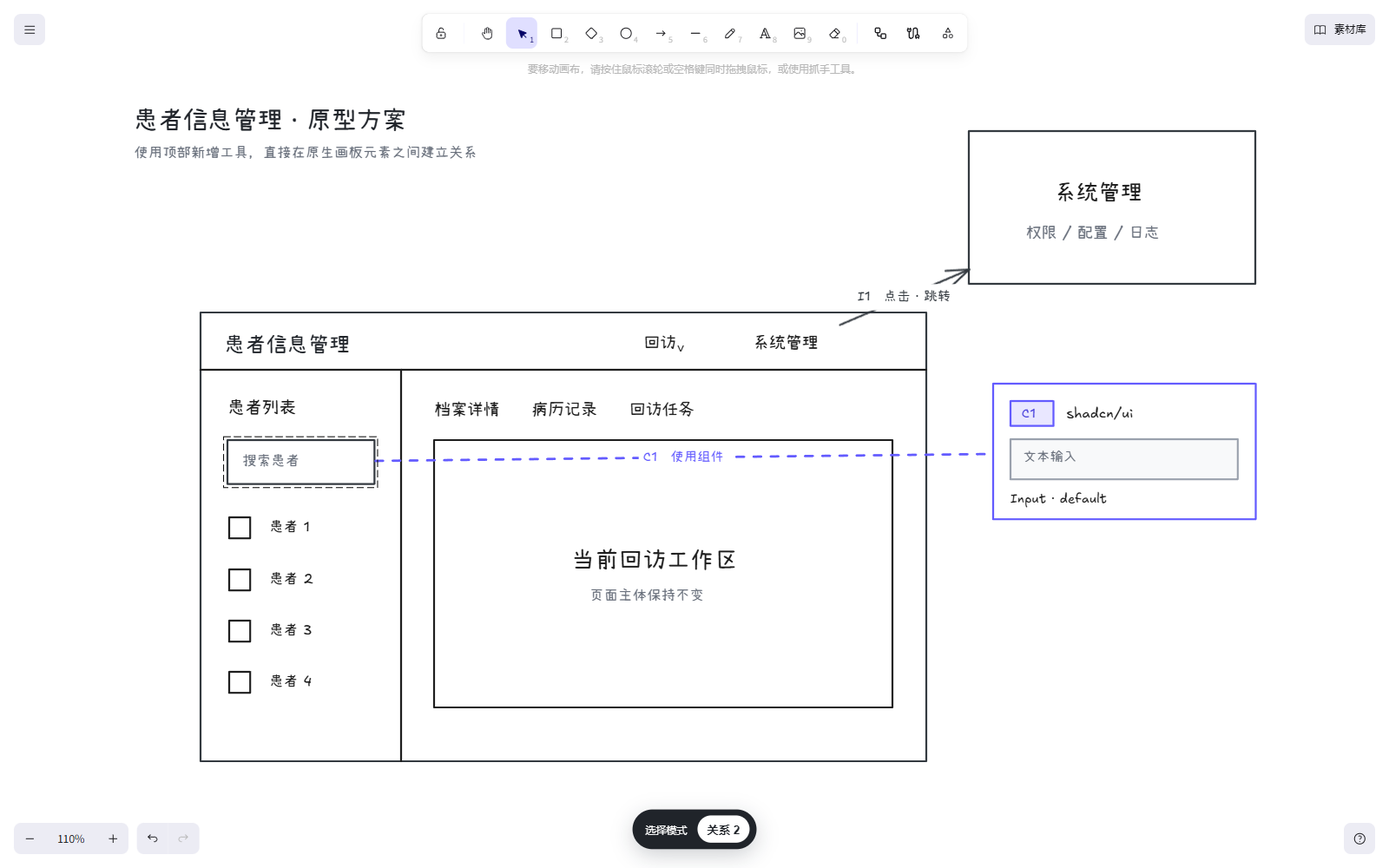
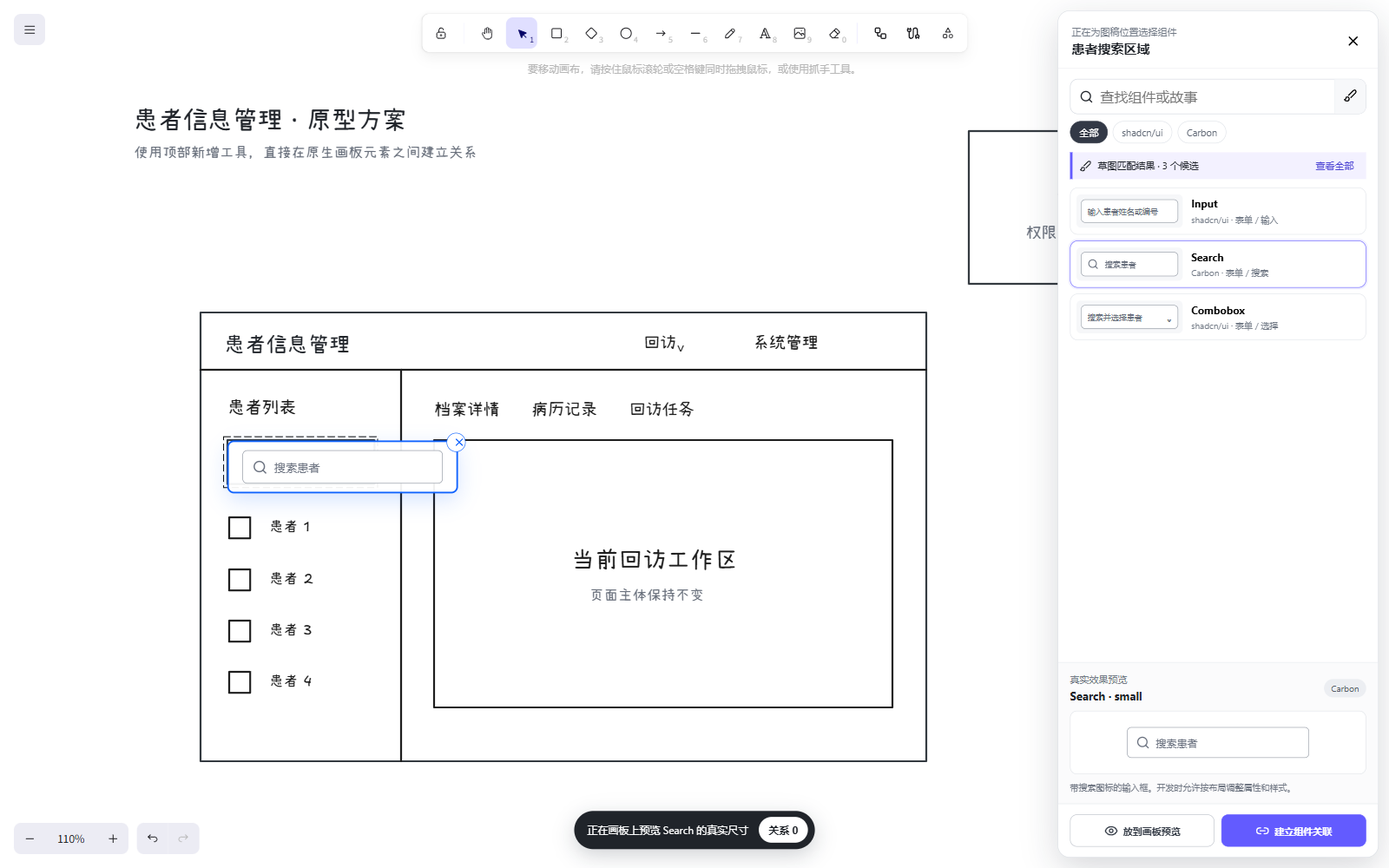
prototype contextual component linking

diff --git a/prototypes/design-relations/excalidraw-prototype.tsx b/prototypes/design-relations/excalidraw-prototype.tsx
@@ -1,7 +1,7 @@
 import React, { useCallback, useEffect, useLayoutEffect, useMemo, useRef, useState } from "react";
 import { createRoot } from "react-dom/client";
 import { createPortal } from "react-dom";
-import { Cable, Workflow, X } from "lucide-react";
+import { Brush, Cable, Eye, Link2, Search, Workflow, X } from "lucide-react";
 import { Excalidraw, convertToExcalidrawElements } from "@excalidraw/excalidraw";
 import type { ExcalidrawImperativeAPI } from "@excalidraw/excalidraw/types";
 import "@excalidraw/excalidraw/index.css";
@@ -20,9 +20,12 @@ const nodeInfo: Record<string, { label: string; role: string }> = {
 };
 
 const componentCatalog = {
-  "shadcn-input": { library: "shadcn/ui", component: "Input", variant: "default", summary: "文本输入" },
-  "carbon-search": { library: "Carbon", component: "Search", variant: "small", summary: "带搜索图标的输入框" },
-  "shadcn-combobox": { library: "shadcn/ui", component: "Combobox", variant: "default", summary: "输入与选项组合" },
+  "shadcn-input": { library: "shadcn/ui", component: "Input", variant: "default", summary: "简洁文本输入", category: "表单 / 输入", keywords: "input 输入 搜索" },
+  "carbon-search": { library: "Carbon", component: "Search", variant: "small", summary: "带搜索图标的输入框", category: "表单 / 搜索", keywords: "search 搜索 input" },
+  "shadcn-combobox": { library: "shadcn/ui", component: "Combobox", variant: "default", summary: "输入与选项组合", category: "表单 / 选择", keywords: "combobox 下拉 选择 搜索" },
+  "carbon-dropdown": { library: "Carbon", component: "Dropdown", variant: "default", summary: "结构明确的下拉选择", category: "表单 / 选择", keywords: "dropdown 下拉 选择" },
+  "shadcn-button": { library: "shadcn/ui", component: "Button", variant: "default", summary: "主要操作按钮", category: "操作 / 按钮", keywords: "button 按钮 操作" },
+  "carbon-toggle": { library: "Carbon", component: "Toggle", variant: "small", summary: "布尔状态切换", category: "表单 / 开关", keywords: "toggle switch 开关" },
 };
 
 const baseSkeleton: any[] = [
@@ -138,6 +141,18 @@ function ToolbarTools({ mode, onMode }: { mode: Mode; onMode: (mode: Mode) => vo
   </>, host);
 }
 
+function ComponentVisual({ componentRefId, compact = false }: { componentRefId: string; compact?: boolean }) {
+  if (componentRefId === "shadcn-button") return <span className="demo-button">保存患者</span>;
+  if (componentRefId === "carbon-toggle") return <span className="demo-toggle"><i />启用提醒</span>;
+  if (componentRefId === "carbon-dropdown" || componentRefId === "shadcn-combobox") {
+    return <span className="demo-select">{componentRefId === "carbon-dropdown" ? "请选择状态" : "搜索并选择患者"}<b>⌄</b></span>;
+  }
+  return <span className={`demo-input${componentRefId === "carbon-search" ? " with-search" : ""}`}>
+    {componentRefId === "carbon-search" && <Search size={compact ? 13 : 16} />}
+    <span>{componentRefId === "carbon-search" ? "搜索患者" : "输入患者姓名或编号"}</span>
+  </span>;
+}
+
 function App() {
   const [api, setApi] = useState<ExcalidrawImperativeAPI | null>(null);
   const [mode, setMode] = useState<Mode>("select"); const modeRef = useRef(mode);
@@ -149,10 +164,18 @@ function App() {
   const [bindings, setBindings] = useState<ComponentBinding[]>([]); const bindingsRef = useRef(bindings);
   const [message, setMessage] = useState("选择画板工具开始体验");
   const [summaryOpen, setSummaryOpen] = useState(false);
+  const [componentQuery, setComponentQuery] = useState("");
+  const [componentSource, setComponentSource] = useState("全部");
+  const [selectedComponentRefId, setSelectedComponentRefId] = useState("shadcn-input");
+  const [sketchSearchOpen, setSketchSearchOpen] = useState(false);
+  const [sketchMatched, setSketchMatched] = useState(false);
+  const [overlayPreviewRefId, setOverlayPreviewRefId] = useState<string | null>(null);
+  const [canvasViewport, setCanvasViewport] = useState({ zoom: 1, scrollX: 0, scrollY: 0 });
   const lastSelection = useRef("");
 
   const syncMode = (next: Mode) => {
     modeRef.current = next; setMode(next); pendingRef.current = null; setPendingNodeId(null); lastSelection.current = "";
+    setOverlayPreviewRefId(null); setSketchSearchOpen(false);
     const nextPhase = next === "interaction" ? "source" : next === "component" ? "slot" : "idle"; phaseRef.current = nextPhase; setPhase(nextPhase);
     setMessage(next === "interaction" ? "先选择交互触发元素" : next === "component" ? "先选择图稿中的组件使用位置" : "选择模式");
     api?.updateScene({ appState: { selectedElementIds: {}, activeTool: { ...api.getAppState().activeTool, type: "selection", customType: null } } as any });
@@ -164,12 +187,16 @@ function App() {
 
   const chooseComponent = (componentRefId: string) => {
     const targetNodeId = pendingRef.current; if (!targetNodeId) return;
-    const id = `C${bindingsRef.current.length + 1}`;
-    const next = [...bindingsRef.current, { id, targetNodeId, componentRefId, connectorElementId: `component-link-${id}`, cardNodeId: `component-card-${id}`, usageIntent: "在该位置使用所选组件", customization: "开发时根据布局适配，不进行非等比缩放" }];
-    bindingsRef.current = next; setBindings(next); pendingRef.current = null; setPendingNodeId(null); phaseRef.current = "slot"; setPhase("slot"); setMessage(`${id} 已建立：虚线连接图稿位置与组件参考卡`); refreshScene(interactionsRef.current, next);
+    const existing = bindingsRef.current.find((item) => item.targetNodeId === targetNodeId);
+    const id = existing?.id || `C${bindingsRef.current.length + 1}`;
+    const binding = { id, targetNodeId, componentRefId, connectorElementId: `component-link-${id}`, cardNodeId: `component-card-${id}`, usageIntent: "在该位置使用所选组件", customization: "开发时根据布局适配，不进行非等比缩放" };
+    const next = existing ? bindingsRef.current.map((item) => item.id === id ? binding : item) : [...bindingsRef.current, binding];
+    bindingsRef.current = next; setBindings(next); refreshScene(interactionsRef.current, next); syncMode("select"); setMessage(`${id} 已建立：虚线连接图稿位置与组件参考卡`);
   };
 
   const onChange = useCallback((elements: readonly any[], appState: any) => {
+    const zoom = Number(appState.zoom?.value) || 1;
+    setCanvasViewport((current) => current.zoom === zoom && current.scrollX === appState.scrollX && current.scrollY === appState.scrollY ? current : { zoom, scrollX: appState.scrollX || 0, scrollY: appState.scrollY || 0 });
     if (modeRef.current === "select") return;
     const selected = Object.keys(appState.selectedElementIds || {}).filter((id) => appState.selectedElementIds[id]);
     const nodeId = selected.find((id) => nodeInfo[id]); if (!nodeId || nodeId === lastSelection.current) return; lastSelection.current = nodeId;
@@ -180,12 +207,27 @@ function App() {
         const next = [...interactionsRef.current, { id, sourceNodeId: pendingRef.current!, targetNodeId: nodeId, event: eventRef.current, action: actionRef.current, arrowElementId: `interaction-arrow-${id}`, label: `${eventLabel} · ${actionLabel}` }];
         interactionsRef.current = next; setInteractions(next); pendingRef.current = null; setPendingNodeId(null); phaseRef.current = "source"; setPhase("source"); setMessage(`${id} 已建立：箭头两端已绑定真实元素`); refreshScene(next, bindingsRef.current);
       }
-    } else { pendingRef.current = nodeId; setPendingNodeId(nodeId); phaseRef.current = "component"; setPhase("component"); setMessage(`位置：${nodeInfo[nodeId].label}。请选择组件`); }
+    } else { pendingRef.current = nodeId; setPendingNodeId(nodeId); phaseRef.current = "component"; setPhase("component"); setMessage(`位置：${nodeInfo[nodeId].label}。侧栏已显示可选组件`); }
     setTimeout(() => { lastSelection.current = ""; api?.updateScene({ appState: { selectedElementIds: {} } as any }); }, 0);
   }, [api]);
 
   const exportData = useMemo(() => ({ version: 1, designNodes: Object.entries(nodeInfo).map(([id, info]) => ({ id, ...info })), interactions, componentBindings: bindings, componentRefs: Object.fromEntries(bindings.map((item) => [item.componentRefId, componentCatalog[item.componentRefId as keyof typeof componentCatalog]])) }), [interactions, bindings]);
   const count = interactions.length + bindings.length;
+  const visibleComponents = Object.entries(componentCatalog).filter(([id, item]) => {
+    const matchesSource = componentSource === "全部" || item.library === componentSource;
+    const query = componentQuery.trim().toLowerCase();
+    const matchesQuery = !query || `${item.component} ${item.summary} ${item.category} ${item.keywords}`.toLowerCase().includes(query);
+    const matchesSketch = !sketchMatched || ["shadcn-input", "carbon-search", "shadcn-combobox"].includes(id);
+    return matchesSource && matchesQuery && matchesSketch;
+  });
+  const selectedComponent = componentCatalog[selectedComponentRefId as keyof typeof componentCatalog];
+  const previewTarget = pendingNodeId ? baseGeometry[pendingNodeId] : null;
+
+  useEffect(() => {
+    if (visibleComponents.length && !visibleComponents.some(([id]) => id === selectedComponentRefId)) {
+      setSelectedComponentRefId(visibleComponents[0][0]);
+    }
+  }, [componentQuery, componentSource, selectedComponentRefId, sketchMatched, visibleComponents]);
 
   useEffect(() => {
     (window as any).__dockyardRelationPrototype = {
@@ -198,10 +240,21 @@ function App() {
     <Excalidraw initialData={{ elements: buildElements([], []), appState: { viewBackgroundColor: "#ffffff", zoom: { value: 0.72 as any }, scrollX: 35, scrollY: 35 } }} excalidrawAPI={(value) => { setApi(value); requestAnimationFrame(() => value.scrollToContent(value.getSceneElements(), { fitToViewport: true, viewportZoomFactor: 0.82, animate: false })); }} onChange={onChange} langCode="zh-CN" theme="light" UIOptions={{ dockedSidebarBreakpoint: 0, canvasActions: { loadScene: false, saveToActiveFile: false } }}>
       <ToolbarTools mode={mode} onMode={syncMode} />
     </Excalidraw>
-    {mode !== "select" && <div className="relation-popover">
+    {(mode === "interaction" || (mode === "component" && phase !== "component")) && <div className="relation-popover">
       <div className="popover-head"><strong>{mode === "interaction" ? "添加交互" : "关联组件"}</strong><button onClick={() => syncMode("select")} aria-label="关闭关系工具"><X size={16} /></button></div>
-      {mode === "interaction" ? <><div className="selectors"><label>触发<select value={eventType} onChange={(e) => { eventRef.current = e.target.value; setEventType(e.target.value); }}><option value="click">点击</option><option value="change">选择</option></select></label><label>行为<select value={actionType} onChange={(e) => { actionRef.current = e.target.value; setActionType(e.target.value); }}><option value="navigate">跳转</option><option value="switch">切换</option></select></label></div><p>{phase === "target" ? `起点：${nodeInfo[pendingNodeId!]?.label}` : "第一步选择触发元素，第二步选择目标页面"}</p></> : <>{phase === "component" ? <div className="component-options">{Object.entries(componentCatalog).map(([id, item]) => <button key={id} onClick={() => chooseComponent(id)}><b>{item.component}</b><span>{item.library} · {item.variant}</span></button>)}</div> : <p>选择图稿中需要使用组件的位置</p>}</>}
+      {mode === "interaction" ? <><div className="selectors"><label>触发<select value={eventType} onChange={(e) => { eventRef.current = e.target.value; setEventType(e.target.value); }}><option value="click">点击</option><option value="change">选择</option></select></label><label>行为<select value={actionType} onChange={(e) => { actionRef.current = e.target.value; setActionType(e.target.value); }}><option value="navigate">跳转</option><option value="switch">切换</option></select></label></div><p>{phase === "target" ? `起点：${nodeInfo[pendingNodeId!]?.label}` : "第一步选择触发元素，第二步选择目标页面"}</p></> : <p>先选择图稿中需要使用组件的位置，随后打开组件侧栏。</p>}
     </div>}
+    {mode === "component" && phase === "component" && pendingNodeId && <aside className="component-drawer" aria-label="组件选择侧栏">
+      <header className="drawer-head"><div><small>正在为图稿位置选择组件</small><strong>{nodeInfo[pendingNodeId].label}</strong></div><button onClick={() => syncMode("select")} aria-label="关闭组件侧栏"><X size={18} /></button></header>
+      <div className="drawer-search"><Search size={16} /><input aria-label="查找组件" placeholder="查找组件或故事" value={componentQuery} onChange={(event) => { setComponentQuery(event.target.value); setSketchMatched(false); }} /><button className={sketchSearchOpen ? "active" : ""} onClick={() => setSketchSearchOpen(!sketchSearchOpen)} title="草图检索"><Brush size={16} /></button></div>
+      <div className="source-filter" aria-label="组件来源">{["全部", "shadcn/ui", "Carbon"].map((source) => <button className={componentSource === source ? "active" : ""} key={source} onClick={() => setComponentSource(source)}>{source}</button>)}</div>
+      {sketchSearchOpen && <section className="sketch-search-card"><div className="sketch-selection"><span>当前画板选区</span><div><Search size={14} />搜索患者</div></div><p>沿用项目已有的草图识别能力，根据轮廓和文字寻找组件。</p><button onClick={() => { setSketchMatched(true); setComponentQuery(""); setSketchSearchOpen(false); setSelectedComponentRefId("carbon-search"); }}>使用当前选区检索</button></section>}
+      {sketchMatched && <div className="match-banner"><Brush size={14} /><span>草图匹配结果 · 3 个候选</span><button onClick={() => setSketchMatched(false)}>查看全部</button></div>}
+      <div className="component-results">{visibleComponents.map(([id, item]) => <button className={`component-result${selectedComponentRefId === id ? " selected" : ""}`} key={id} onClick={() => setSelectedComponentRefId(id)}><span className="result-preview"><ComponentVisual componentRefId={id} compact /></span><span className="result-copy"><b>{item.component}</b><small>{item.library} · {item.category}</small></span></button>)}{!visibleComponents.length && <p className="empty">没有匹配的组件</p>}</div>
+      <section className="component-preview"><div className="preview-heading"><div><small>真实效果预览</small><strong>{selectedComponent.component} · {selectedComponent.variant}</strong></div><span>{selectedComponent.library}</span></div><div className="preview-stage"><ComponentVisual componentRefId={selectedComponentRefId} /></div><p>{selectedComponent.summary}。开发时允许按布局调整属性和样式。</p></section>
+      <footer className="drawer-actions"><button className="preview-action" onClick={() => { setOverlayPreviewRefId(selectedComponentRefId); setMessage(`正在画板上预览 ${selectedComponent.component} 的真实尺寸`); }}><Eye size={16} />放到画板预览</button><button className="link-action" onClick={() => chooseComponent(selectedComponentRefId)}><Link2 size={16} />建立组件关联</button></footer>
+    </aside>}
+    {overlayPreviewRefId && previewTarget && <div className="canvas-component-preview" style={{ left: (previewTarget.x + canvasViewport.scrollX) * canvasViewport.zoom, top: (previewTarget.y + canvasViewport.scrollY) * canvasViewport.zoom, transform: `scale(${canvasViewport.zoom})` }}><button onClick={() => setOverlayPreviewRefId(null)} aria-label="关闭画板组件预览"><X size={13} /></button><ComponentVisual componentRefId={overlayPreviewRefId} /></div>}
     <div className="relation-status"><span>{message}</span><button onClick={() => setSummaryOpen(!summaryOpen)}>关系 {count}</button></div>
     {summaryOpen && <div className="relation-summary"><div className="popover-head"><strong>图稿关系</strong><button onClick={() => setSummaryOpen(false)} aria-label="关闭关系清单"><X size={16} /></button></div>{!count && <p className="empty">尚未建立关系</p>}{interactions.map((item) => <div className="summary-item" key={item.id}><b>{item.id}　{nodeInfo[item.sourceNodeId].label} → {nodeInfo[item.targetNodeId].label}</b><span>{item.label} · 原生绑定箭头</span></div>)}{bindings.map((item) => { const component = componentCatalog[item.componentRefId as keyof typeof componentCatalog]; return <div className="summary-item component" key={item.id}><b>{item.id}　{nodeInfo[item.targetNodeId].label}</b><span>{component.library} · {component.component} · {component.variant}</span></div>; })}<button className="copy" onClick={() => navigator.clipboard.writeText(JSON.stringify(exportData, null, 2))}>复制模型可读数据</button></div>}
   </div>;

diff --git a/prototypes/design-relations/excalidraw-prototype.css b/prototypes/design-relations/excalidraw-prototype.css
@@ -1,1 +1,74 @@
-html,body,#root,.prototype-shell{width:100%;height:100%;margin:0;overflow:hidden}.prototype-shell{position:relative;font-family:"Segoe UI","Microsoft YaHei",sans-serif}.relation-toolbar-tools{display:flex;align-items:center;gap:2px}.relation-popover{position:absolute;z-index:20;top:78px;right:18px;width:310px;padding:13px;background:#fff;border:1px solid #d9dde3;border-radius:12px;box-shadow:0 8px 28px #10182824;color:#20242a}.popover-head{display:flex;align-items:center;justify-content:space-between;margin-bottom:10px}.popover-head button{display:grid;place-items:center;border:0;background:transparent;border-radius:6px;padding:4px;cursor:pointer}.relation-popover p{margin:7px 0 0;color:#69707c;font-size:12px;line-height:1.45}.selectors{display:flex;gap:10px}.selectors label{display:flex;align-items:center;gap:6px;color:#5e6570;font-size:12px}.selectors select{border:1px solid #d5d9df;border-radius:7px;padding:6px 8px;background:#fff}.component-options{display:grid;gap:7px}.component-options button{display:flex;align-items:center;justify-content:space-between;border:1px solid #d9dde3;background:#fff;border-radius:8px;padding:9px 10px;cursor:pointer;text-align:left}.component-options button:hover{border-color:#635bff;background:#f6f5ff}.component-options span{font-size:11px;color:#747b87}.relation-status{position:absolute;z-index:15;left:50%;bottom:22px;transform:translateX(-50%);display:flex;align-items:center;gap:12px;background:#20242a;color:#fff;border-radius:999px;padding:7px 8px 7px 15px;box-shadow:0 7px 24px #10182833;font-size:12px}.relation-status button{border:0;background:#fff;color:#20242a;border-radius:999px;padding:7px 11px;cursor:pointer;font-weight:650}.relation-summary{position:absolute;z-index:20;right:18px;bottom:76px;width:330px;max-height:440px;overflow:auto;background:#fff;border:1px solid #d9dde3;border-radius:12px;padding:13px;box-shadow:0 9px 30px #10182826;color:#20242a}.summary-item{border:1px solid #dfe2e7;border-left:3px solid #343a40;border-radius:8px;padding:9px;margin:7px 0}.summary-item.component{border-left-color:#635bff}.summary-item b,.summary-item span{display:block}.summary-item b{font-size:12px;margin-bottom:4px}.summary-item span{font-size:11px;color:#69707c}.copy{width:100%;margin-top:8px;border:0;border-radius:8px;background:#20242a;color:#fff;padding:9px;cursor:pointer}.empty{color:#7b828d;text-align:center;font-size:12px}.excalidraw .App-menu_top .buttonList{padding-right:0}
+html, body, #root, .prototype-shell { width: 100%; height: 100%; margin: 0; overflow: hidden; }
+button, input, select { font: inherit; }
+.prototype-shell { position: relative; color: #20242a; font-family: "Segoe UI", "Microsoft YaHei", sans-serif; }
+.relation-toolbar-tools { display: flex; align-items: center; gap: 2px; }
+.relation-popover { position: absolute; z-index: 20; top: 78px; right: 18px; width: 310px; padding: 13px; border: 1px solid #d9dde3; border-radius: 12px; background: #fff; box-shadow: 0 8px 28px #10182824; }
+.popover-head, .drawer-head, .preview-heading { display: flex; align-items: center; justify-content: space-between; }
+.popover-head { margin-bottom: 10px; }
+.popover-head button, .drawer-head button { display: grid; place-items: center; border: 0; border-radius: 6px; padding: 4px; background: transparent; cursor: pointer; }
+.relation-popover p { margin: 7px 0 0; color: #69707c; font-size: 12px; line-height: 1.45; }
+.selectors { display: flex; gap: 10px; }
+.selectors label { display: flex; align-items: center; gap: 6px; color: #5e6570; font-size: 12px; }
+.selectors select { border: 1px solid #d5d9df; border-radius: 7px; padding: 6px 8px; background: #fff; }
+
+.component-drawer { position: absolute; z-index: 25; top: 12px; right: 12px; bottom: 12px; display: grid; grid-template-rows: auto auto auto auto minmax(120px, 1fr) auto auto; width: 370px; box-sizing: border-box; overflow: hidden; border: 1px solid #d9dde3; border-radius: 14px; background: #fff; box-shadow: 0 12px 40px #1018282b; }
+.drawer-head { padding: 16px 16px 12px; border-bottom: 1px solid #eceef1; }
+.drawer-head div, .preview-heading div { display: grid; gap: 3px; }
+.drawer-head small, .preview-heading small { color: #737b87; font-size: 11px; }
+.drawer-head strong { font-size: 15px; }
+.drawer-search { display: grid; grid-template-columns: auto 1fr 36px; align-items: center; gap: 8px; margin: 12px 14px 8px; padding-left: 10px; border: 1px solid #cfd4dc; border-radius: 9px; }
+.drawer-search:focus-within { border-color: #635bff; box-shadow: 0 0 0 2px #635bff1f; }
+.drawer-search input { min-width: 0; border: 0; outline: 0; padding: 9px 0; background: transparent; }
+.drawer-search > button { align-self: stretch; border: 0; border-left: 1px solid #e2e5e9; border-radius: 0 8px 8px 0; background: #f7f8fa; cursor: pointer; }
+.drawer-search > button.active { color: #fff; background: #635bff; }
+.source-filter { display: flex; gap: 6px; padding: 0 14px 10px; }
+.source-filter button { border: 1px solid #dce0e6; border-radius: 999px; padding: 5px 10px; color: #606875; background: #fff; cursor: pointer; font-size: 11px; }
+.source-filter button.active { border-color: #333946; color: #fff; background: #333946; }
+.sketch-search-card { display: grid; gap: 8px; margin: 0 14px 10px; padding: 10px; border: 1px solid #d9d5ff; border-radius: 9px; background: #f8f7ff; }
+.sketch-selection { display: grid; grid-template-columns: 95px 1fr; align-items: center; gap: 8px; color: #6e7480; font-size: 11px; }
+.sketch-selection div { display: flex; align-items: center; gap: 6px; border: 1px solid #9aa1ad; padding: 8px; color: #303640; background: #fff; }
+.sketch-search-card p { margin: 0; color: #676e79; font-size: 11px; line-height: 1.4; }
+.sketch-search-card > button { justify-self: end; border: 0; border-radius: 7px; padding: 7px 10px; color: #fff; background: #635bff; cursor: pointer; font-size: 11px; }
+.match-banner { display: flex; align-items: center; gap: 7px; margin: 0 14px 8px; border-left: 3px solid #635bff; padding: 7px 8px; background: #f3f1ff; font-size: 11px; }
+.match-banner button { margin-left: auto; border: 0; color: #4d45d4; background: transparent; cursor: pointer; }
+.component-results { display: grid; align-content: start; gap: 7px; overflow: auto; padding: 2px 14px 10px; }
+.component-result { display: grid; grid-template-columns: 122px minmax(0, 1fr); align-items: center; gap: 10px; min-height: 54px; border: 1px solid #e0e3e8; border-radius: 9px; padding: 7px; text-align: left; background: #fff; cursor: pointer; }
+.component-result:hover { border-color: #aaa4ff; }
+.component-result.selected { border-color: #635bff; box-shadow: 0 0 0 2px #635bff1c; }
+.result-preview { display: grid; place-items: center; min-height: 38px; overflow: hidden; border-radius: 5px; background: #f6f7f9; }
+.result-copy { display: grid; gap: 4px; min-width: 0; }
+.result-copy b { font-size: 12px; }
+.result-copy small { overflow: hidden; color: #737b87; font-size: 10px; text-overflow: ellipsis; white-space: nowrap; }
+.component-preview { display: grid; gap: 8px; padding: 12px 14px; border-top: 1px solid #e6e8ec; background: #fbfbfc; }
+.preview-heading strong { font-size: 13px; }
+.preview-heading > span { border-radius: 999px; padding: 4px 8px; color: #555d69; background: #eceef2; font-size: 10px; }
+.preview-stage { display: grid; place-items: center; min-height: 72px; border: 1px solid #dfe2e7; border-radius: 8px; background: #fff; }
+.component-preview p { margin: 0; color: #707783; font-size: 10px; }
+.drawer-actions { display: grid; grid-template-columns: 1fr 1fr; gap: 8px; padding: 12px 14px; border-top: 1px solid #e2e5e9; }
+.drawer-actions button { display: flex; align-items: center; justify-content: center; gap: 6px; border-radius: 8px; padding: 10px 8px; cursor: pointer; font-weight: 650; font-size: 11px; }
+.preview-action { border: 1px solid #b8bdc6; color: #343b46; background: #fff; }
+.link-action { border: 1px solid #635bff; color: #fff; background: #635bff; }
+
+.demo-input, .demo-select { display: flex; align-items: center; gap: 7px; width: 210px; box-sizing: border-box; border: 1px solid #8c939e; border-radius: 5px; padding: 9px 10px; color: #6b7280; background: #fff; font-size: 12px; }
+.demo-select { justify-content: space-between; }
+.demo-button { border: 0; border-radius: 6px; padding: 9px 18px; color: #fff; background: #18181b; font-size: 12px; }
+.demo-toggle { display: flex; align-items: center; gap: 8px; font-size: 12px; }
+.demo-toggle i { position: relative; width: 32px; height: 18px; border-radius: 999px; background: #635bff; }
+.demo-toggle i::after { position: absolute; top: 3px; right: 3px; width: 12px; height: 12px; border-radius: 50%; background: #fff; content: ""; }
+.result-preview .demo-input, .result-preview .demo-select { width: 112px; padding: 7px; font-size: 9px; }
+.result-preview .demo-button { padding: 7px 12px; font-size: 9px; }
+.result-preview .demo-toggle { font-size: 9px; }
+.canvas-component-preview { position: absolute; z-index: 18; display: grid; place-items: center; width: 230px; min-height: 44px; transform-origin: top left; border: 2px solid #0f62fe; border-radius: 7px; padding: 4px; background: #ffffffee; box-shadow: 0 7px 22px #0f62fe2b; pointer-events: auto; }
+.canvas-component-preview > button { position: absolute; top: -10px; right: -10px; display: grid; place-items: center; width: 20px; height: 20px; border: 1px solid #0f62fe; border-radius: 50%; color: #0f62fe; background: #fff; cursor: pointer; }
+
+.relation-status { position: absolute; z-index: 15; left: 50%; bottom: 22px; display: flex; align-items: center; gap: 12px; transform: translateX(-50%); border-radius: 999px; padding: 7px 8px 7px 15px; color: #fff; background: #20242a; box-shadow: 0 7px 24px #10182833; font-size: 12px; }
+.relation-status button { border: 0; border-radius: 999px; padding: 7px 11px; color: #20242a; background: #fff; cursor: pointer; font-weight: 650; }
+.relation-summary { position: absolute; z-index: 30; right: 18px; bottom: 76px; width: 330px; max-height: 440px; overflow: auto; border: 1px solid #d9dde3; border-radius: 12px; padding: 13px; color: #20242a; background: #fff; box-shadow: 0 9px 30px #10182826; }
+.summary-item { margin: 7px 0; border: 1px solid #dfe2e7; border-left: 3px solid #343a40; border-radius: 8px; padding: 9px; }
+.summary-item.component { border-left-color: #635bff; }
+.summary-item b, .summary-item span { display: block; }
+.summary-item b { margin-bottom: 4px; font-size: 12px; }
+.summary-item span { color: #69707c; font-size: 11px; }
+.copy { width: 100%; margin-top: 8px; border: 0; border-radius: 8px; padding: 9px; color: #fff; background: #20242a; cursor: pointer; }
+.empty { color: #7b828d; text-align: center; font-size: 12px; }
+.excalidraw .App-menu_top .buttonList { padding-right: 0; }

diff --git a/prototypes/design-relations/excalidraw.html b/prototypes/design-relations/excalidraw.html
@@ -3,6 +3,7 @@
   <head>
     <meta charset="UTF-8" />
     <meta name="viewport" content="width=device-width, initial-scale=1.0" />
+    <link rel="icon" href="data:," />
     <title>Dockyard 原生关系工具实验</title>
   </head>
   <body>

diff --git a/prototypes/design-relations/README.md b/prototypes/design-relations/README.md
@@ -6,4 +6,6 @@
 
 原型状态仅保存在内存中，不会修改 Dockyard 项目数据。顶部工具栏增加“交互”和“组件关联”两个实验工具；画面中的箭头、标签、虚线及组件参考卡都是真实 Excalidraw 元素。
 
+组件关联会先选择画板位置，再打开临时组件侧栏。侧栏包含文字检索、来源筛选、草图检索、候选列表和真实效果预览，并提供“放到画板预览”与“建立组件关联”两个操作。
+
 `example-intent.json` 是完成示例对应的模型可读数据，`result.png` 是实际浏览器操作后的截图。
